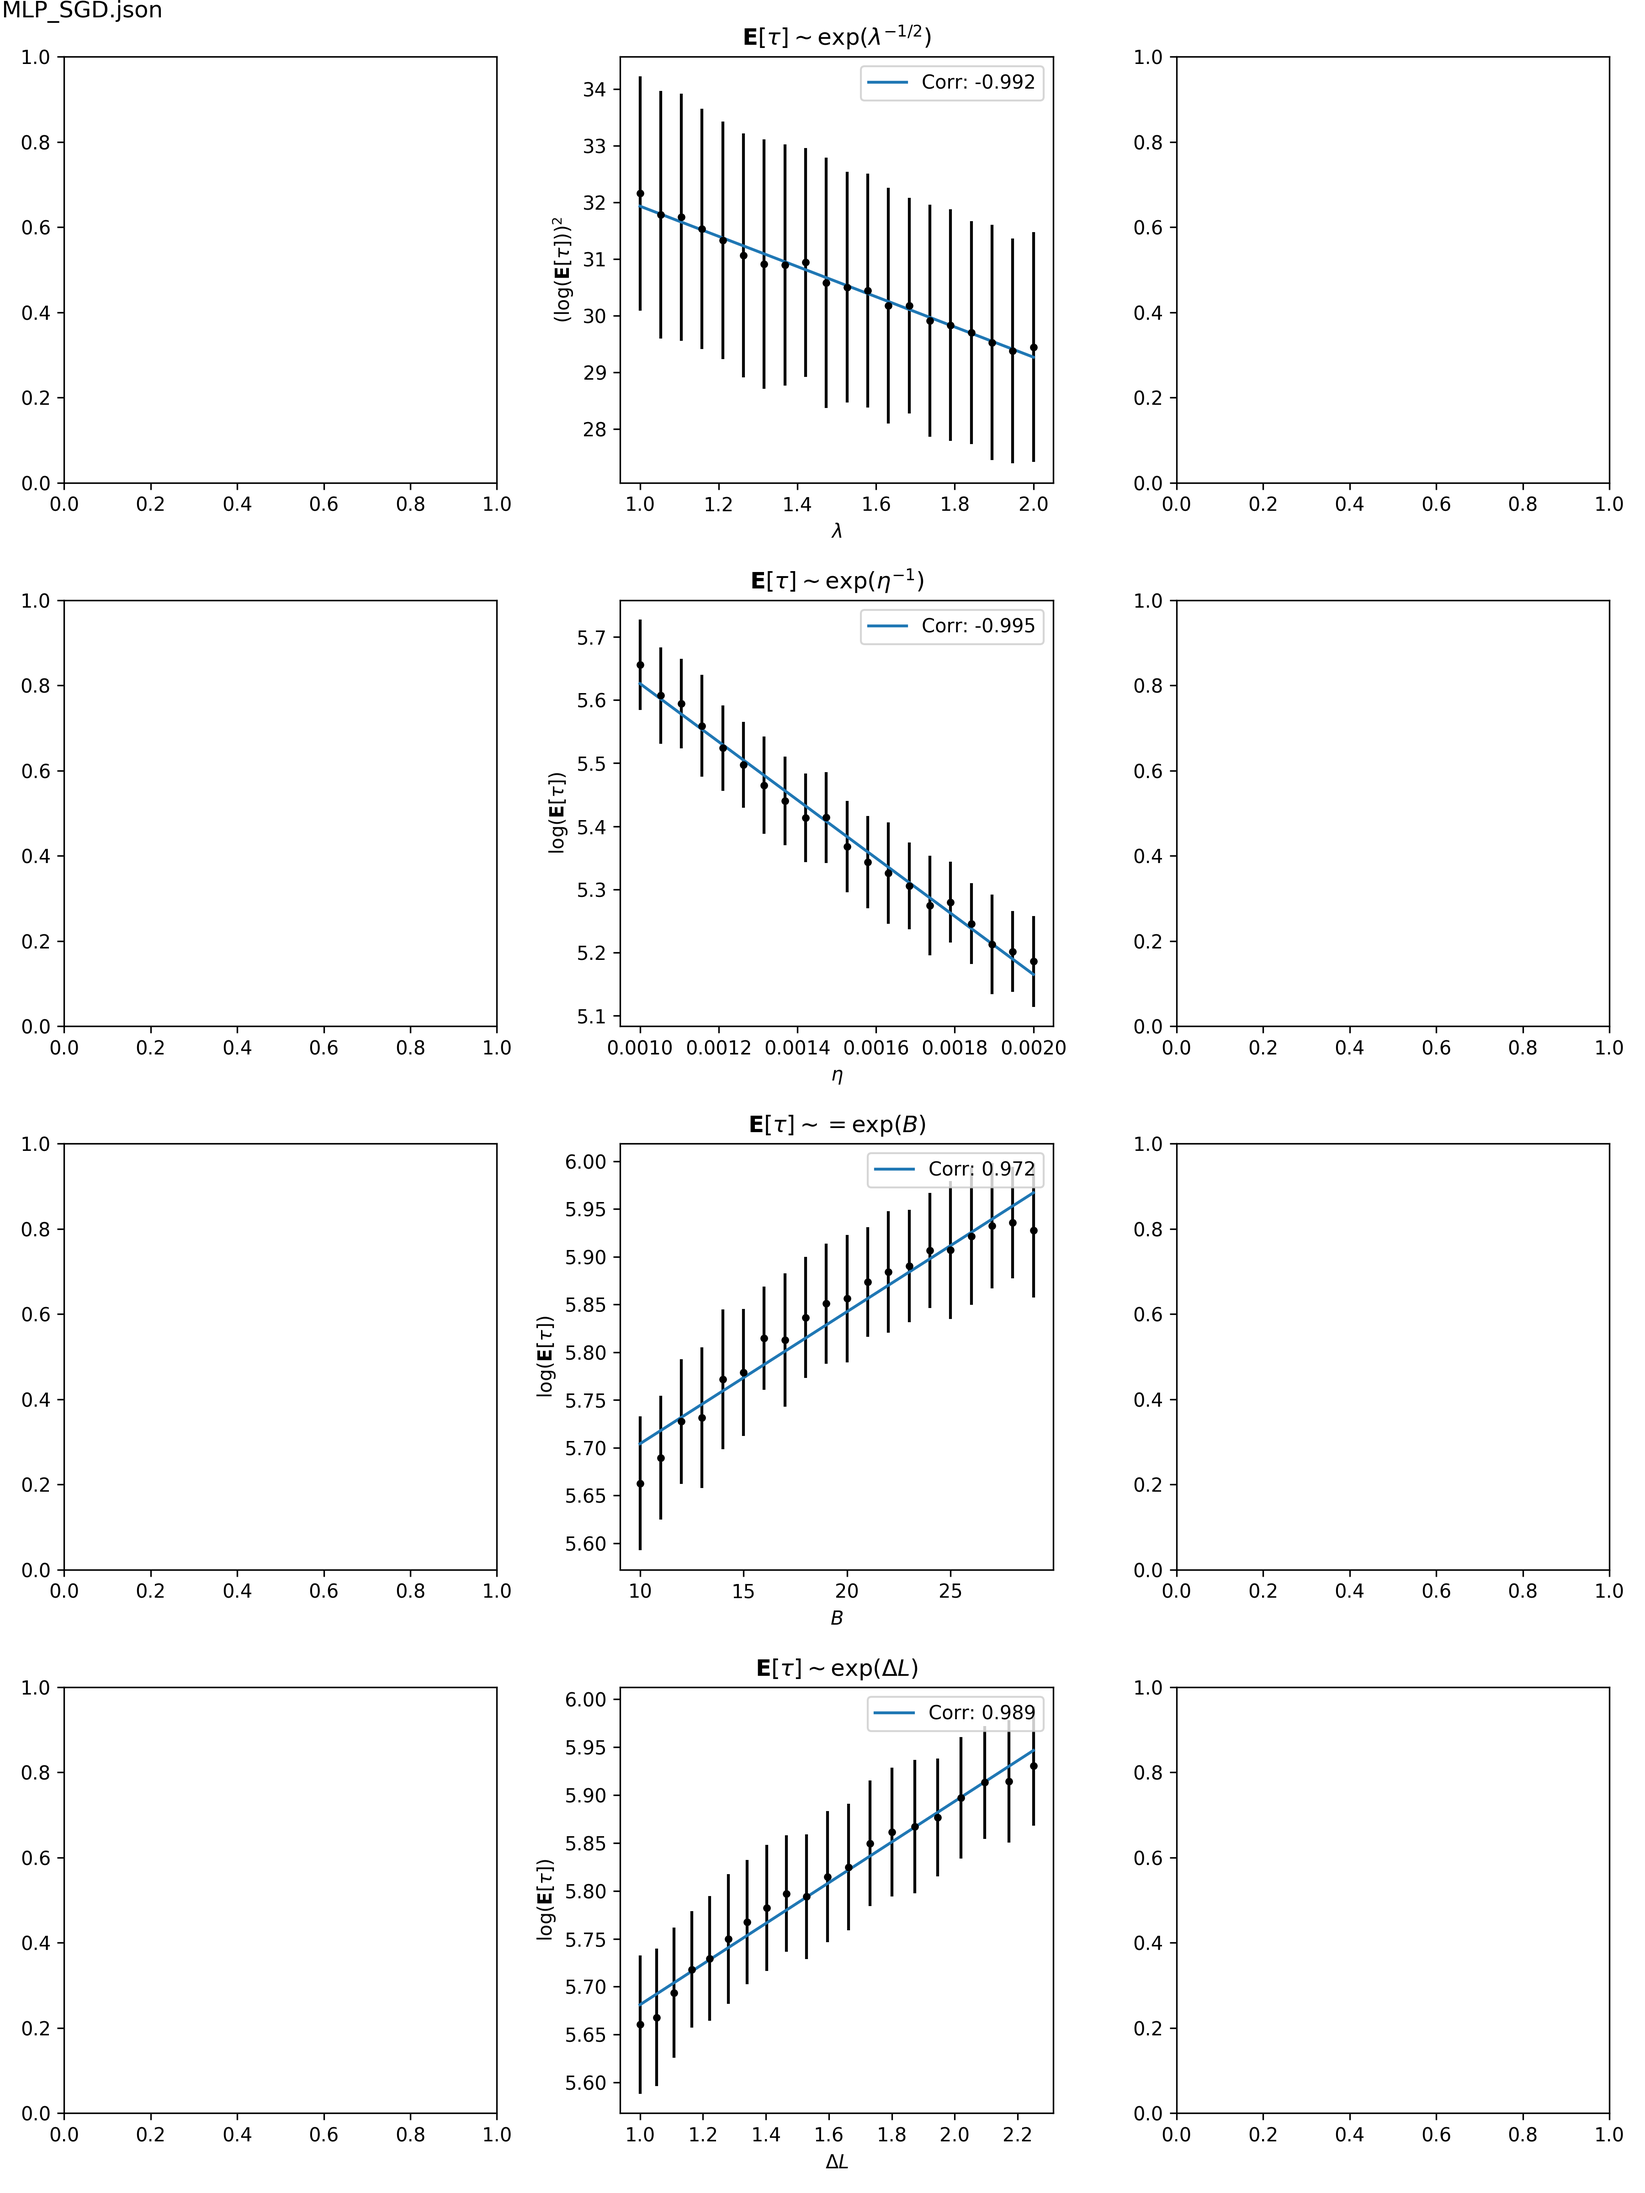
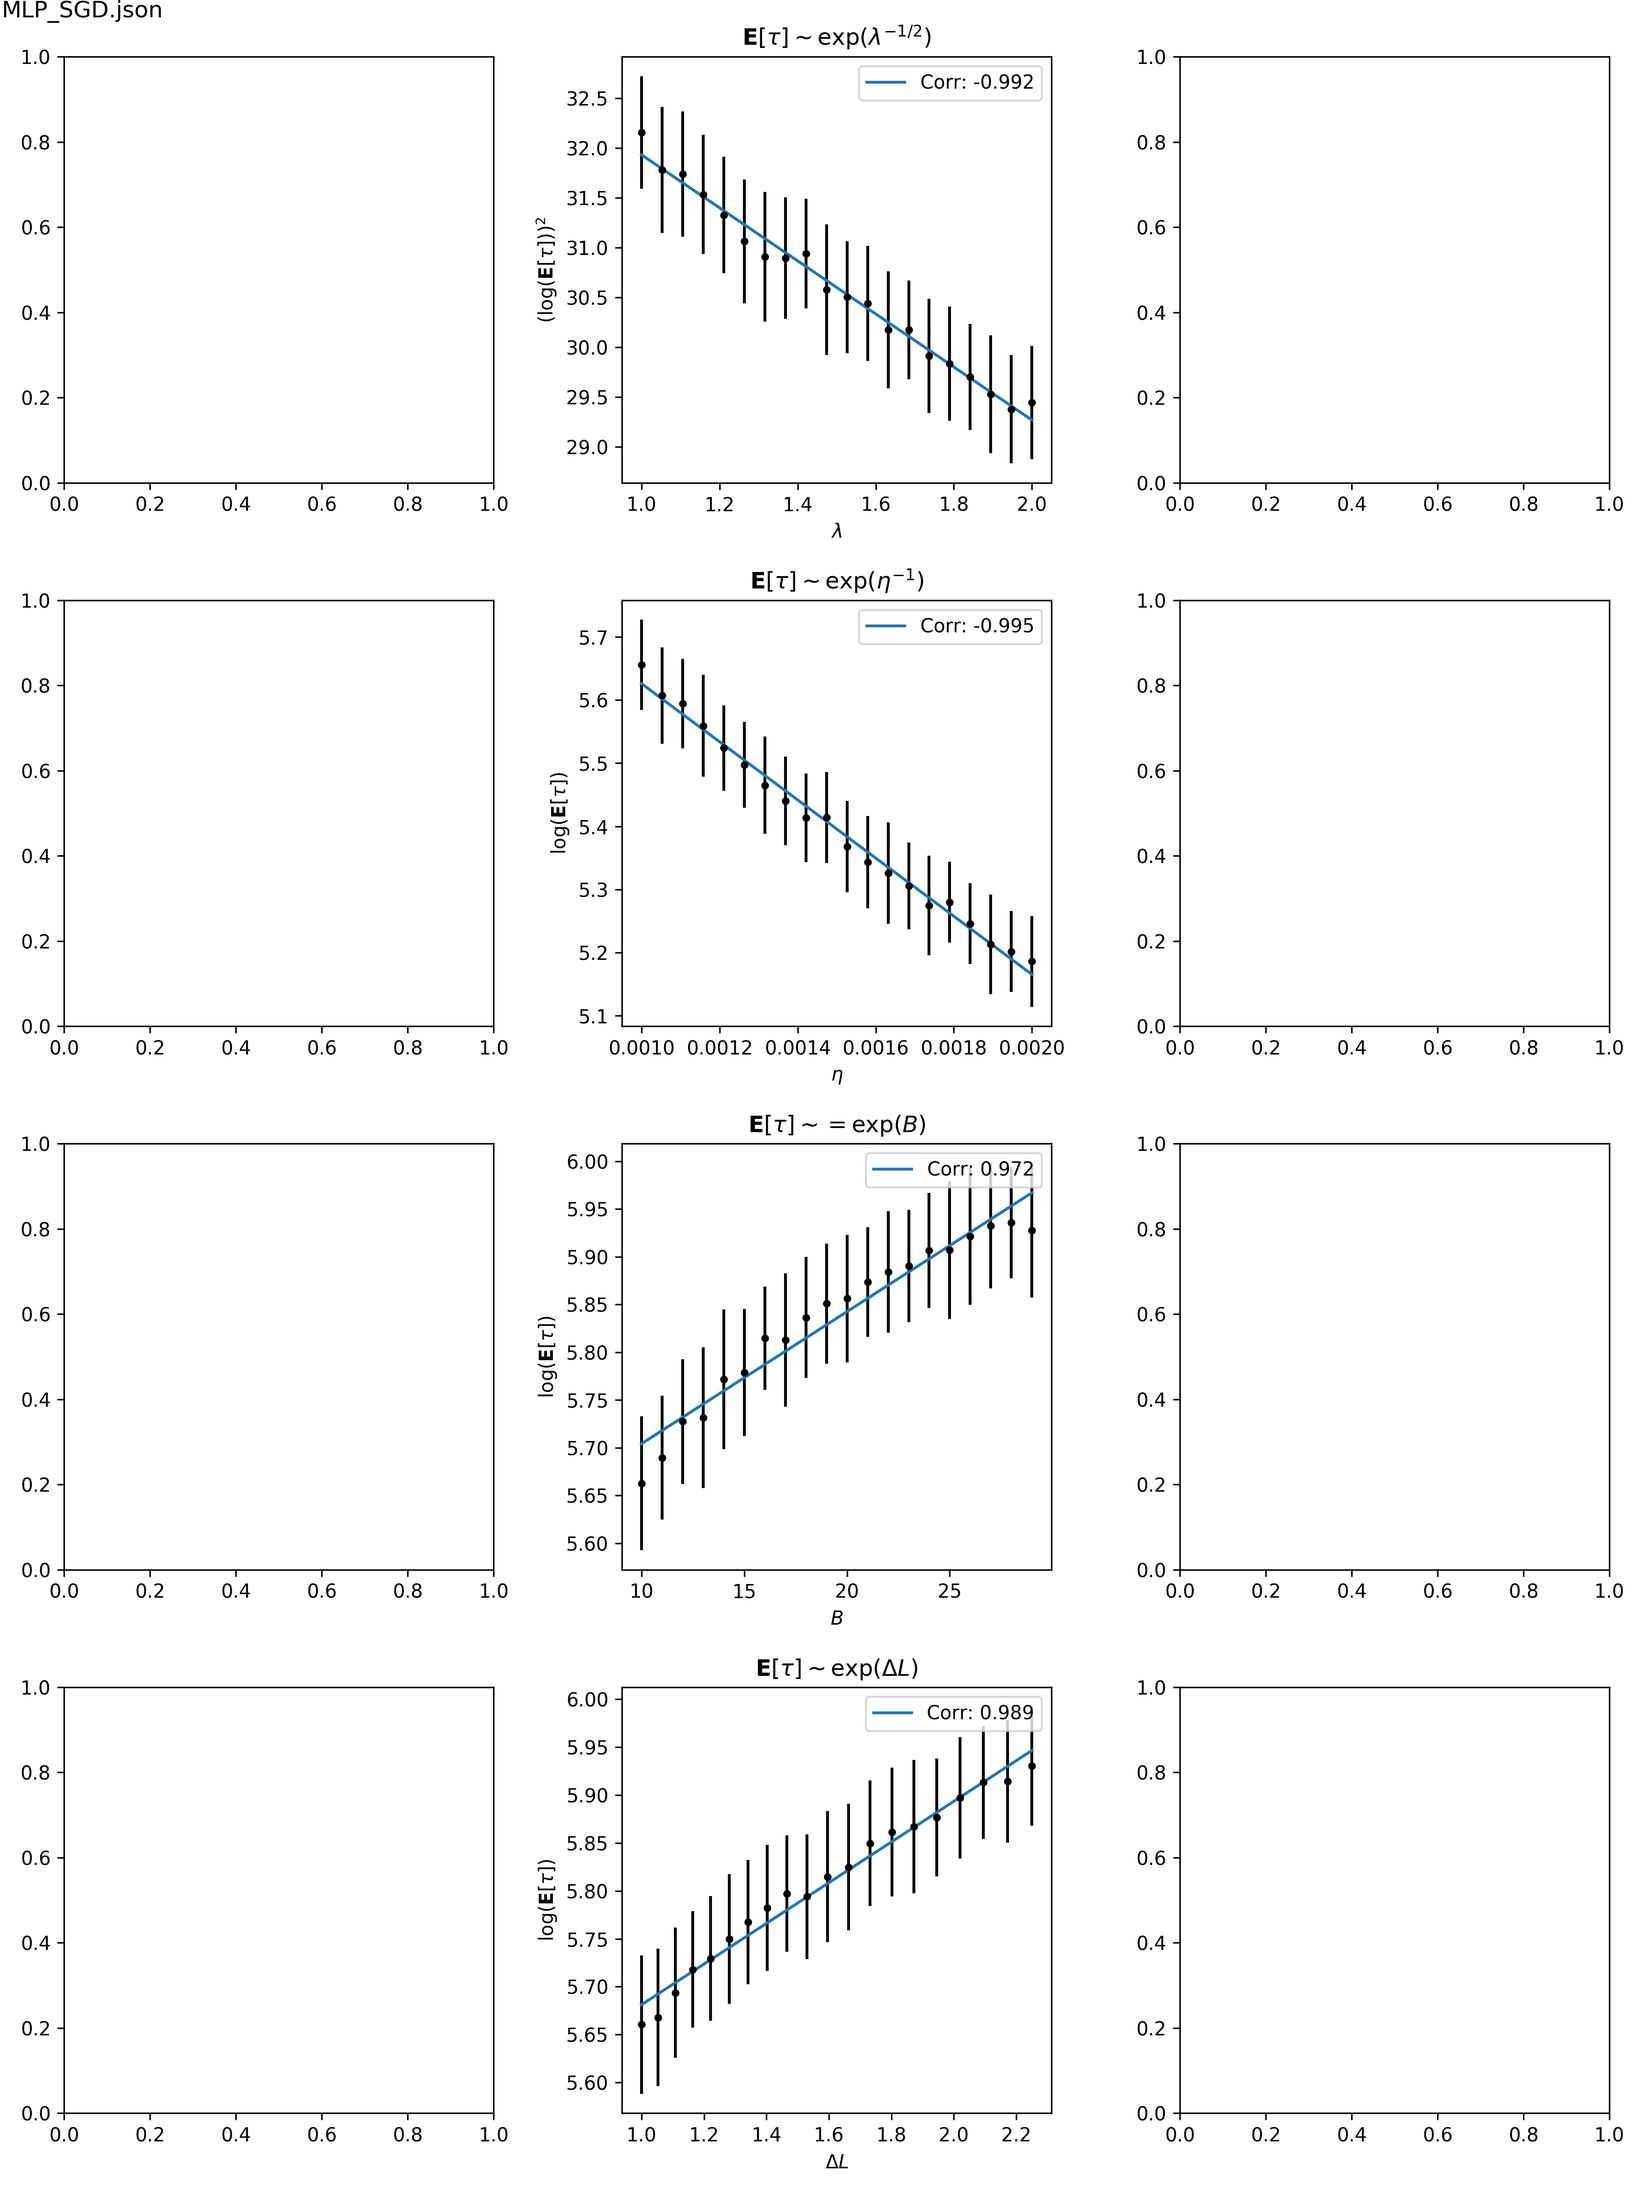
update

diff --git a/draw.py b/draw.py
@@ -27,7 +27,7 @@ def draw(config_fn, sharpness_results, lr_results, batch_size_results, r_results
     m_2, c_2 = np.linalg.lstsq(A, y_2, rcond=None)[0]
     ax1[1].set_xlabel("$\lambda$")
     ax1[1].set_ylabel("$\left(\log(\mathbf{E}[\\tau])\\right)^2$")
-    ax1[1].errorbar(x_2, y_2, yerr=log_std+np.sqrt(2)*np.sqrt(y_2*log_std), fmt='.k') 
+    ax1[1].errorbar(x_2, y_2, yerr=log_std+np.sqrt(2)*np.sqrt(y_2)*log_std, fmt='.k') 
     ax1[1].plot(x_2, m_2*x_2 + c_2)
     ax1[1].legend([f'Corr: {coeff_2:.3g}'])
     ax1[1].set_title('$\mathbf{E}[\\tau]\sim \exp(\lambda^{-1/2})$')
